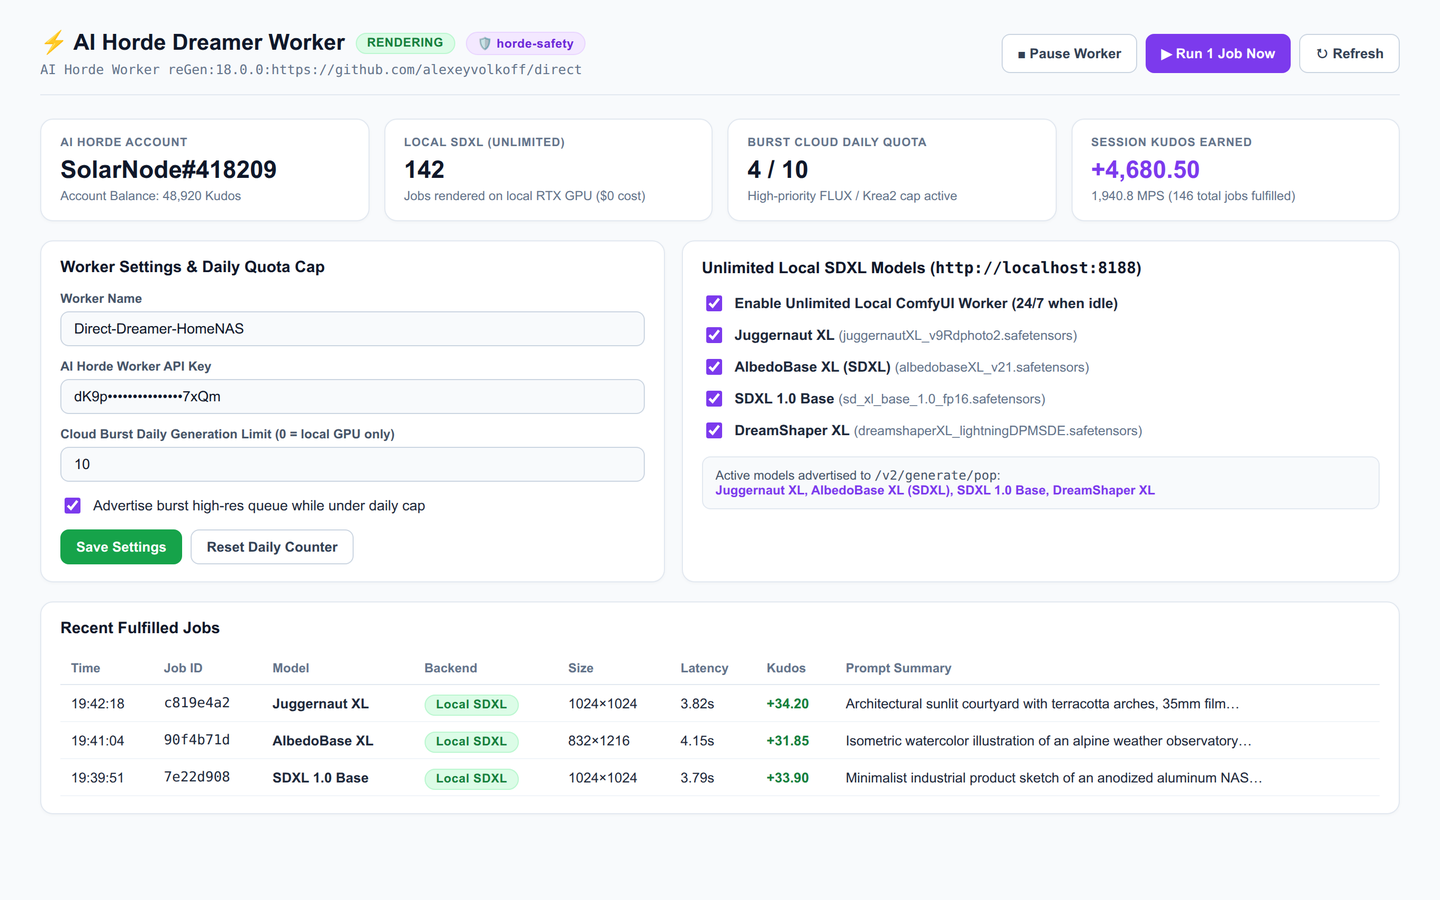
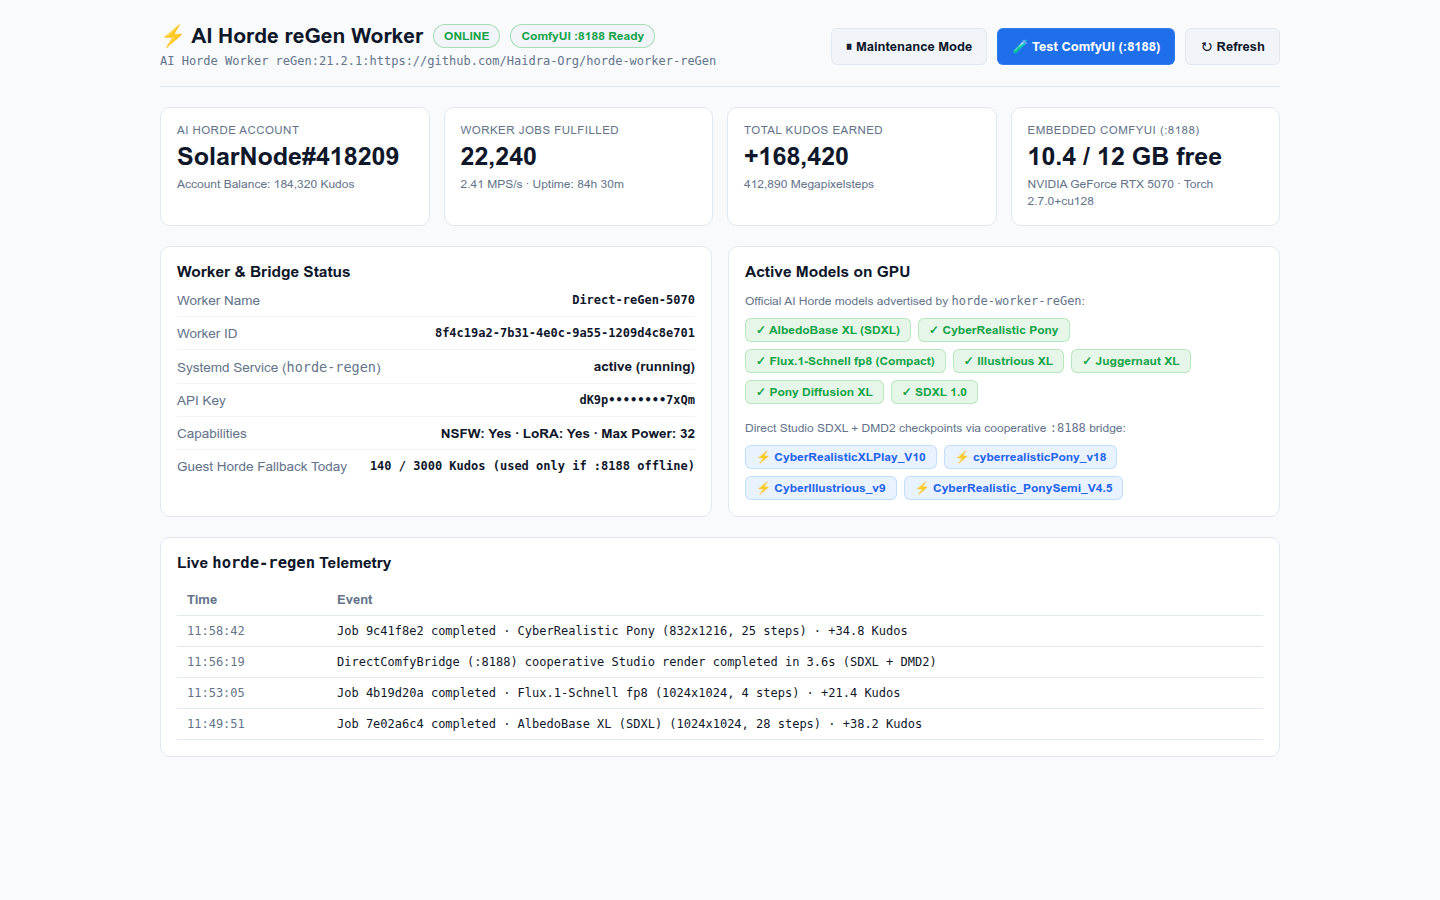
docs(horde,studio): update AI Horde, Dreamer, and cooperative reGen bridge docs on GitHub and docs.disk.direct

diff --git a/ai/horde_dreamer.py b/ai/horde_dreamer.py
@@ -8,9 +8,8 @@ Features:
      `karras`/`scheduler`, and `clip_skip`) when local ComfyUI queue is idle.
    - Strict `AI-Horde-image-model-reference` SHA256 & byte-size verification for all
      advertised checkpoints (with zero cross-model fallback).
-   - Optional daily-capped Modal Krea 2 (`Krea2-Turbo_fp8`) generation when reference
-     weights (`qwen_image_fp8_e4m3fn.safetensors` / `qwen3vl_4b_fp8_scaled.safetensors` /
-     `qwen_image_vae.safetensors`) are verified.
+   - Live telemetry & Maintenance Mode management for dedicated `horde-worker-reGen`
+     runners paired with the cooperative `:8188` ComfyUI bridge (`regen_comfy_bridge`).
 2. AI Horde Image Generation Client (`horde_generate_image`) & `ai_mode` normalization hook.
 3. Owner-only management console at `/horde` and JSON endpoints under `/horde/api/*`
    and `/assistant/horde_worker`.
@@ -3286,7 +3285,9 @@ HORDE_CONSOLE_HTML = """<!DOCTYPE html>
     color-scheme: dark;
     --bg: #0d1117;
     --card: #161b22;
+    --btn-bg: #21262d;
     --border: #30363d;
+    --row-border: rgba(48,54,61,0.6);
     --text: #e6edf3;
     --muted: #8b949e;
     --accent: #58a6ff;
@@ -3297,9 +3298,26 @@ HORDE_CONSOLE_HTML = """<!DOCTYPE html>
     --scrollbar-thumb-hover: #525f72;
     --scrollbar-track: transparent;
   }
+  @media (prefers-color-scheme: light) {
+    :root:not(.dark) {
+      color-scheme: light;
+      --bg: #f8fafc;
+      --card: #ffffff;
+      --btn-bg: #f1f5f9;
+      --border: #e2e8f0;
+      --row-border: #f1f5f9;
+      --text: #0f172a;
+      --muted: #64748b;
+      --accent: #2563eb;
+      --green: #16a34a;
+      --yellow: #ca8a04;
+      --red: #dc2626;
+      --scrollbar-thumb: #cbd5e1;
+      --scrollbar-thumb-hover: #94a3b8;
+    }
+  }
   html {
     background: var(--bg);
-    color-scheme: dark;
     scrollbar-width: thin;
     scrollbar-color: var(--scrollbar-thumb) var(--bg);
   }
@@ -3322,7 +3340,7 @@ HORDE_CONSOLE_HTML = """<!DOCTYPE html>
   h1 { margin: 0; font-size: 21px; display: flex; align-items: center; gap: 10px; flex-wrap: wrap; }
   .badge {
     font-size: 12px; padding: 4px 10px; border-radius: 999px; font-weight: 600;
-    background: #21262d; border: 1px solid var(--border);
+    background: var(--btn-bg); border: 1px solid var(--border);
   }
   .badge.ok { color: var(--green); border-color: rgba(63,185,80,0.4); }
   .badge.warn { color: var(--yellow); border-color: rgba(210,153,34,0.4); }
@@ -3342,13 +3360,13 @@ HORDE_CONSOLE_HTML = """<!DOCTYPE html>
   @media (max-width: 820px) { .row { grid-template-columns: 1fr; } }
   h2 { margin: 0 0 12px 0; font-size: 15.5px; }
   .kv-list { display: flex; flex-direction: column; gap: 9px; font-size: 13.5px; }
-  .kv-row { display: flex; justify-content: space-between; gap: 12px; padding-bottom: 8px; border-bottom: 1px solid rgba(48,54,61,0.6); }
+  .kv-row { display: flex; justify-content: space-between; gap: 12px; padding-bottom: 8px; border-bottom: 1px solid var(--row-border); }
   .kv-row:last-child { border-bottom: none; padding-bottom: 0; }
   .kv-key { color: var(--muted); }
   .kv-val { font-weight: 600; text-align: right; }
   .btns { display: flex; gap: 10px; flex-wrap: wrap; }
   button {
-    cursor: pointer; border: 1px solid var(--border); background: #21262d;
+    cursor: pointer; border: 1px solid var(--border); background: var(--btn-bg);
     color: var(--text); padding: 8px 14px; border-radius: 6px; font-size: 13px; font-weight: 600;
   }
   button.primary { background: #238636; border-color: rgba(240,246,252,0.1); color: #fff; }
@@ -3428,7 +3446,7 @@ HORDE_CONSOLE_HTML = """<!DOCTYPE html>
           <span class="kv-val mono" id="kvWorkerId">-</span>
         </div>
         <div class="kv-row">
-          <span class="kv-key">Systemd Service (`horde-regen`)</span>
+          <span class="kv-key">Systemd Service (<code>horde-regen</code>)</span>
           <span class="kv-val" id="kvSystemd">-</span>
         </div>
         <div class="kv-row">
@@ -3457,7 +3475,7 @@ HORDE_CONSOLE_HTML = """<!DOCTYPE html>
   </div>
 
   <div class="card">
-    <h2>Live `horde-regen` Telemetry</h2>
+    <h2>Live <code>horde-regen</code> Telemetry</h2>
     <div class="table-wrap">
       <table>
         <thead>

diff --git a/ai/README.md b/ai/README.md
@@ -16,9 +16,9 @@
 - **Private Multilingual RAG & Photo Indexing** — Indexes local documents (`PDF`, `DOCX`, `XLSX`, `PPTX`, `MD`, code) and photos directly from your folders using ChromaDB and CPU-friendly `paraphrase-multilingual-MiniLM-L12-v2` embeddings. Bare photos are automatically captioned and OCR-indexed via Ollama vision models (e.g. `gemma4`) without uploading files to third-party clouds.
 - **Mobile & PWA Remote Access (Zero Port Forwarding)** — Connect to your home Ollama node from any phone or browser at [**aiassistant.direct**](https://aiassistant.direct) or [**disk.direct**](https://disk.direct) over encrypted P2P WebRTC DataChannels. No static IP, router setup, or VPN required.
 - **Passwordless Cryptographic Identity (DID)** — Access control is based on W3C-style Decentralized Identifiers (`DID` keypairs with portable `.json` keyfiles) and P2P device pairing (`LinkID` / QR) — **no static API tokens in `config.ini`**.
-- **Creative Studio & Prompt Assistant** — Includes an Ollama-powered **AI Art Director** that writes and surgically refines visual prompts, plans multi-scene storyboards, manages character Personas, and drives local **ComfyUI** pipelines (SDXL DMD2, IP-Adapter Plus Face + ReActor FaceSwap, Auto-Inpaint retouch, Krea 2, Anima, video generation, and 1-click CivitAI publishing).
-- **Flexible Runtime Modes (`local` · `agentic` · `hybrid` · `horde`)** — Run everything on a single GPU box (`local`), keep lightweight CPU indexing on an always-on NAS/SBC while tunneling Ollama & ComfyUI over P2P to a desktop GPU (`agentic`), tap into the crowdsourced [**AI Horde**](https://aihorde.net) cluster (`horde` / `hybrid`), or run on Rockchip RK3588/RK3576 NPUs via `RKLLAMA`.
-- **Built-in AI Horde Client & ComfyUI Dreamer Worker (`/horde`)** — Includes both an **AI Horde text & image generation client** (`horde_client.py`, `horde_dreamer.py`) and an idle-aware **AI Horde Image Worker ("Dreamer")** with a live management console at `http://localhost:4000/horde` that contributes idle ComfyUI GPU cycles (`SDXL` / `Krea 2`) to the Horde and earns Kudos automatically.
+- **Creative Studio & Prompt Assistant** - Includes an Ollama-powered **AI Art Director** that writes and surgically refines visual prompts, plans multi-scene storyboards, manages character Personas, browses and caches **CivitAI LoRAs** (with personal `mcp_keys` CivitAI API token support), and drives local **ComfyUI** pipelines (8-step SDXL + DMD2, IP-Adapter Plus Face + ReActor FaceSwap, Impact Auto-Inpaint retouch, plus optional serverless cloud `Krea 2` / `Anima` & video generation).
+- **Flexible Runtime Modes (`local` · `agentic` · `hybrid` · `horde`)** - Run everything on a single GPU box (`local`), keep lightweight CPU indexing on an always-on NAS/SBC while tunneling Ollama & ComfyUI over P2P to a desktop GPU (`agentic`), tap into the crowdsourced [**AI Horde**](https://aihorde.net) cluster (`horde` / `hybrid`), or run on Rockchip RK3588/RK3576 NPUs via `RKLLAMA`.
+- **Built-in AI Horde Client, SDXL Dreamer Worker & `reGen` Bridge (`/horde`)** - Includes an **AI Horde text & image client** (`horde_client.py`, `horde_image_mapper.py`), a built-in idle-aware **SDXL Dreamer Worker** (`horde_dreamer.py`) for standalone ComfyUI, and a zero-copy **Cooperative ComfyUI Bridge** (`regen_comfy_bridge/`) for sharing a single GPU with `horde-worker-reGen` - all monitored from the owner console at `http://localhost:4000/horde`.
 - **MCP Tools, Voice & Push Notifications** — Native Model Context Protocol (`MCP`) server & client integrations, WordCraft / GridCraft / DeckCraft document tools, local neural TTS (`Kokoro-82M`), and Web/mobile push notifications when background tasks or renders complete.
 
 ---
@@ -157,26 +157,30 @@ COMFY_INPUT_DIR = /opt/ComfyUI/input
 
 If you run the AI node on a low-power always-on NAS or mini-PC without a discrete GPU, set `AI_PROVIDER = agentic` (or switch to **Agentic** directly in the web UI under **Settings → AI Assistant**). Knowledge indexing and ChromaDB stay local on CPU, while Ollama and ComfyUI calls are transparently tunneled over Disk Direct P2P to a paired desktop GPU node (`agentic_tunnel.py`).
 
-### AI Horde Client & Built-in ComfyUI Dreamer Worker (`/horde`)
+### AI Horde Client, SDXL Dreamer Worker & Cooperative `reGen` Bridge (`/horde`)
 
-**AI Assistant Direct** integrates natively with [**AI Horde**](https://aihorde.net) both as a **Client** (`horde_client.py`, `horde_dreamer.py`) and as an **Idle-Aware ComfyUI Image Worker ("Dreamer")**:
+**AI Assistant Direct** integrates natively with [**AI Horde**](https://aihorde.net) both as a **Client** (`horde_client.py`, `horde_image_mapper.py`, `horde_dreamer.py`) and as an **AI Horde Image Worker**:
 
 - **Dual Work & Fun (Roleplay) Modes (`AI_PROVIDER = hybrid` / `horde`):**
-  - **Work Mode:** Serious private productivity — local multilingual RAG over your documents (`PDF`, `DOCX`, `XLSX`, `PPTX`, `MD`, code), semantic search, and MCP tools powered by your local Ollama model.
-  - **Fun / RP Mode:** Switch seamlessly to crowdsourced **AI Horde** 70B–123B roleplay models (or local models) with **1-click SillyTavern Character Card (`.png` / `.json`) import**, custom Personas, appearance & avatar generation, and neural voice (`Kokoro-82M`).
-- **Built-in Dreamer Worker (`HORDE_WORKER_ENABLED = true`):** Contribute your idle local ComfyUI GPU cycles (`hordelib`-compatible SDXL text-to-image pipeline honoring the requester's `steps`, `cfg_scale`, `sampler_name`, `karras`/`scheduler`, and `clip_skip`, plus optional daily-capped `Krea 2`) to AI Horde and earn Kudos automatically whenever your local ComfyUI queue is empty. Manage models, quotas, and live telemetry in the built-in web console at `http://localhost:4000/horde` (or via the **AI Horde** Node App inside **Disk Direct**).
-- **Mandatory `horde-safety` (NSFW & CSAM) Scanning & Maintenance Compliance:** Every generated image is scanned via [`horde-safety`](https://github.com/Haidra-Org/horde-safety) (`NSFWChecker` with `CLIP ViT-L/14` + `DeepDanbooru`) before R2 upload and `/v2/generate/submit` (fail-closed if `horde_safety` is unavailable, replacing flagged CSAM/SFW-censored images with official AI Horde censor placeholders and reporting `state: "csam"` / `"censored"` and `gen_metadata`). If the worker is placed into **Maintenance Mode** on AI Horde, it automatically pauses polling and never auto-clears the maintenance flag.
+  - **Work Mode:** Private productivity - local multilingual RAG over your documents (`PDF`, `DOCX`, `XLSX`, `PPTX`, `MD`, code), semantic search, and MCP tools powered by your local Ollama model.
+  - **Fun / RP & Studio Fallback:** Switch seamlessly to crowdsourced **AI Horde** 70B-123B roleplay models and SDXL image generation (with automatic CivitAI LoRA mapping, configurable daily Kudos budgets, **1-click SillyTavern Character Card (`.png` / `.json`) import**, custom Personas, and neural voice via `Kokoro-82M`).
+- **Standard Setup - Built-in SDXL Dreamer Worker (`HORDE_WORKER_ENABLED = true`):** Connects to a classic standalone **ComfyUI** (`127.0.0.1:8188`), verifies exact `AI-Horde-image-model-reference` SHA256 digests (`CyberRealistic Pony`, `Pony Realism`, `AlbedoBase XL (SDXL)`, `SDXL 1.0`, `WAI-NSFW-illustrious-SDXL`), and renders single-image SDXL jobs in RAM via `SaveImageWebsocket` whenever your local ComfyUI queue is idle.
+- **Advanced Single-GPU Setup - `horde-worker-reGen` + `regen_comfy_bridge`:** Operators running dedicated `horde-worker-reGen` (`SDXL`, `Pony`, `Flux.1-Schnell`, LoRAs, ControlNet) can prepend `PYTHONPATH=/opt/direct/ai/regen_comfy_bridge` to expose `hordelib`'s embedded ComfyUI on `127.0.0.1:8188` and run Direct Creative Studio (`flow.json` SDXL + DMD2, CivitAI LoRAs, IP-Adapter + ReActor + Impact Auto-Inpaint) cooperatively on the same CUDA context, plus access the live ComfyUI web UI via the **ComfyUI** P2P Node App.
+- **Mandatory `horde-safety` Scanning & Owner `/horde` Console:** Every built-in worker output is scanned via [`horde-safety`](https://github.com/Haidra-Org/horde-safety) (`NSFWChecker`) with zero prompt/image disk retention and automatic **Maintenance Mode** compliance. Monitor live Kudos, MPS, `:8188` VRAM stats, and Maintenance Mode from `http://localhost:4000/horde` (or the **AI Horde** Node App inside **Disk Direct**).
 
 ![AI Horde Hybrid Mode & Character Import](docs/horde_assistant.png)
 
-![AI Horde Dreamer Worker Console](docs/horde_worker.png)
+![AI Horde Worker & ComfyUI Bridge Console](docs/horde_worker.png)
 
 ```ini
-HORDE_WORKER_ENABLED = true
+HORDE_API_KEY = your_aihorde_api_key
+HORDE_WORKER_ENABLED = false
 HORDE_WORKER_API_KEY = your_aihorde_api_key
 HORDE_WORKER_NAME = Direct-Dreamer
-HORDE_WORKER_MODELS = Juggernaut XL
+HORDE_WORKER_MODELS = CyberRealistic Pony
 ```
+
+See the full **[AI Horde & Worker Bridge Guide](https://docs.disk.direct/horde/)** for architecture details and `regen_comfy_bridge` setup.
 
 ---
 

diff --git a/README.md b/README.md
@@ -33,8 +33,8 @@
        │ & sync   │ & ICE negotiation                    │ (LinkMessage)              ┌──────────────────────────┐
        ▼          └───────────────┬──────────────────────┘                            │ Local Compute & Horde    │
   ┌─────────────────────────┐  ┌──┴─────────────────────────┐                         │ • Ollama / RKLLAMA (LLM) │
-  │ services/gun-hub        │  │ core/Gateway.pro           │                         │ • ComfyUI (SDXL / Krea2) │
-  │ GunDB DID relay, chats, │  │ Signaling coordinator &    │                         │ • AI Horde Dreamer       │
+  │ services/gun-hub        │  │ core/Gateway.pro           │                         │ • ComfyUI (SDXL + DMD2)  │
+  │ GunDB DID relay, chats, │  │ Signaling coordinator &    │                         │ • AI Horde Worker/Bridge │
   │ device cert authority   │  │ TURN fallback (coturn)     │                         └──────────────────────────┘
   └─────────────────────────┘  └────────────────────────────┘
 ```
